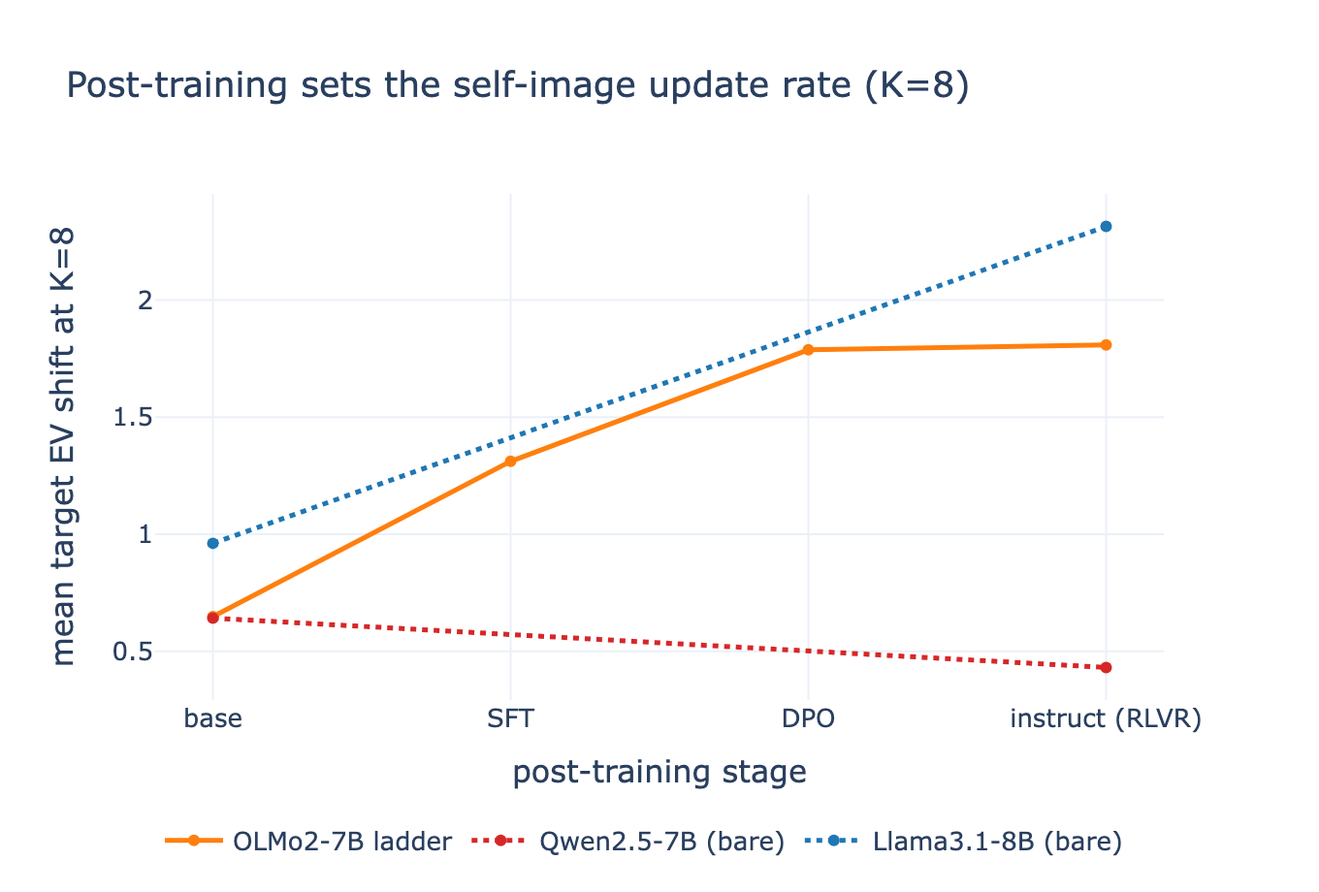
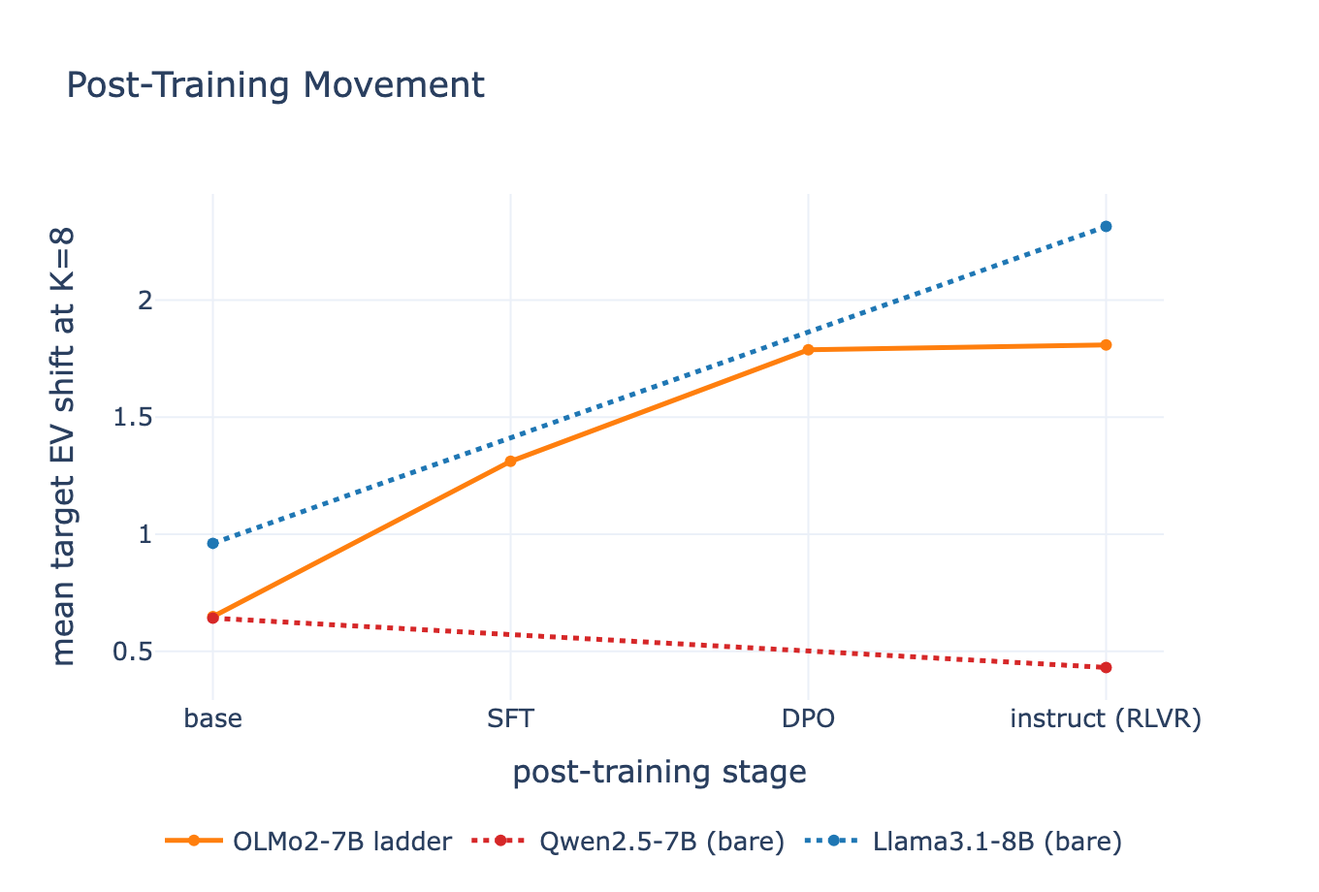
fig_ladder title claims less: 'Post-Training Movement' (rgb — the causal claim belongs in prose, not the figure)
Claude-Session: https://claude.ai/code/session_01WswaY6Pe8WTjJ8fkWw2pwh

Changed region(s): [[0.1235, 0.0609, 0.7412, 0.1217]]

diff --git a/rgb_reports/note_assets/fig_dose_response.html b/rgb_reports/note_assets/fig_dose_response.html
@@ -2,6 +2,6 @@
 <head><meta charset="utf-8" /></head>
 <body>
     <div>                        <script>window.PlotlyConfig = {MathJaxConfig: 'local'};</script>
-        <script charset="utf-8" src="https://cdn.plot.ly/plotly-3.4.0.min.js" integrity="sha256-KEmPoupLpFyGMyGAiOsiNDbKDKAvxXAn/W+oQa0ZAfk=" crossorigin="anonymous"></script>                <div id="b6ab930f-c527-4300-a89a-400cb4ff6f18" class="plotly-graph-div" style="height:440px; width:680px;"></div>            <script>                window.PLOTLYENV=window.PLOTLYENV || {};                                if (document.getElementById("b6ab930f-c527-4300-a89a-400cb4ff6f18")) {                    Plotly.newPlot(                        "b6ab930f-c527-4300-a89a-400cb4ff6f18",                        [{"fill":"toself","fillcolor":"rgba(31,119,180,0.13)","hoverinfo":"skip","mode":"none","showlegend":false,"x":[1,2,4,8,16,32,32,16,8,4,2,1],"y":[0.6029344554353283,1.1973687902768704,2.351087751865138,3.403621983109095,3.7714776336902127,3.933044749666975,2.614722977235904,2.316825096472864,1.8976985667315815,1.006490005061451,0.4081108400359045,0.04639064270562511],"type":"scatter"},{"fill":"toself","fillcolor":"rgba(44,160,44,0.13)","hoverinfo":"skip","mode":"none","showlegend":false,"x":[1,2,4,8,16,32,32,16,8,4,2,1],"y":[1.286072647638808,1.3880356968354297,2.168021800074921,2.6376202095724213,2.885585925489407,2.952445151099924,1.6047358414631352,1.4353133588020268,1.094101512152232,0.7864935855007998,0.34318444818431343,0.17591345482376208],"type":"scatter"},{"fill":"toself","fillcolor":"rgba(214,39,40,0.13)","hoverinfo":"skip","mode":"none","showlegend":false,"x":[1,2,4,8,16,32,32,16,8,4,2,1],"y":[0.04815142470527704,0.2852259937255693,0.2505838010752896,0.29329181214893074,0.6407954082920834,0.9393291104397751,0.1935900785242677,0.05423806197726321,-0.122092612555842,-0.13693738630600097,-0.09373558647965659,-0.315862010945339],"type":"scatter"},{"fill":"toself","fillcolor":"rgba(148,103,189,0.13)","hoverinfo":"skip","mode":"none","showlegend":false,"x":[1,2,4,8,16,32,32,16,8,4,2,1],"y":[0.3246933587795297,0.4055850168193764,0.4080666271601032,0.5205534512978631,0.6983603922507411,0.6877155939214548,0.3004819294326289,0.3351042164456756,0.1913781812364884,0.06506146430090372,0.04474095791070417,-0.05847932023751253],"type":"scatter"},{"line":{"color":"#1f77b4","width":2.5},"mode":"lines+markers","name":"Llama3.1-8B","x":[1,2,4,8,16,32],"y":[0.3215113865133689,0.7565782048769905,1.6692980164038846,2.626398513332851,3.0492405989334532,3.2888305071780772],"type":"scatter"},{"line":{"color":"#2ca02c","width":2.5},"mode":"lines+markers","name":"Gemma3-12B","x":[1,2,4,8,16,32],"y":[0.6683577570700046,0.8280305195939915,1.4369286830529788,1.82395749521288,2.1414539435204007,2.276292663532421],"type":"scatter"},{"line":{"color":"#d62728","width":2.5},"mode":"lines+markers","name":"Qwen2.5-7B","x":[1,2,4,8,16,32],"y":[-0.13380977864904015,0.08795590585218446,0.0576701126425989,0.08621995793043041,0.3238775951827736,0.5464746681226866],"type":"scatter"},{"line":{"color":"#9467bd","width":2.5},"mode":"lines+markers","name":"Phi4-3.8B","x":[1,2,4,8,16,32],"y":[0.12131485117013911,0.21246464582131827,0.22589328799117703,0.3476395492187805,0.49888159930901993,0.48372197911592824],"type":"scatter"}],                        {"template":{"data":{"barpolar":[{"marker":{"line":{"color":"white","width":0.5},"pattern":{"fillmode":"overlay","size":10,"solidity":0.2}},"type":"barpolar"}],"bar":[{"error_x":{"color":"#2a3f5f"},"error_y":{"color":"#2a3f5f"},"marker":{"line":{"color":"white","width":0.5},"pattern":{"fillmode":"overlay","size":10,"solidity":0.2}},"type":"bar"}],"carpet":[{"aaxis":{"endlinecolor":"#2a3f5f","gridcolor":"#C8D4E3","linecolor":"#C8D4E3","minorgridcolor":"#C8D4E3","startlinecolor":"#2a3f5f"},"baxis":{"endlinecolor":"#2a3f5f","gridcolor":"#C8D4E3","linecolor":"#C8D4E3","minorgridcolor":"#C8D4E3","startlinecolor":"#2a3f5f"},"type":"carpet"}],"choropleth":[{"colorbar":{"outlinewidth":0,"ticks":""},"type":"choropleth"}],"contourcarpet":[{"colorbar":{"outlinewidth":0,"ticks":""},"type":"contourcarpet"}],"contour":[{"colorbar":{"outlinewidth":0,"ticks":""},"colorscale":[[0.0,"#0d0887"],[0.1111111111111111,"#46039f"],[0.2222222222222222,"#7201a8"],[0.3333333333333333,"#9c179e"],[0.4444444444444444,"#bd3786"],[0.5555555555555556,"#d8576b"],[0.6666666666666666,"#ed7953"],[0.7777777777777778,"#fb9f3a"],[0.8888888888888888,"#fdca26"],[1.0,"#f0f921"]],"type":"contour"}],"heatmap":[{"colorbar":{"outlinewidth":0,"ticks":""},"colorscale":[[0.0,"#0d0887"],[0.1111111111111111,"#46039f"],[0.2222222222222222,"#7201a8"],[0.3333333333333333,"#9c179e"],[0.4444444444444444,"#bd3786"],[0.5555555555555556,"#d8576b"],[0.6666666666666666,"#ed7953"],[0.7777777777777778,"#fb9f3a"],[0.8888888888888888,"#fdca26"],[1.0,"#f0f921"]],"type":"heatmap"}],"histogram2dcontour":[{"colorbar":{"outlinewidth":0,"ticks":""},"colorscale":[[0.0,"#0d0887"],[0.1111111111111111,"#46039f"],[0.2222222222222222,"#7201a8"],[0.3333333333333333,"#9c179e"],[0.4444444444444444,"#bd3786"],[0.5555555555555556,"#d8576b"],[0.6666666666666666,"#ed7953"],[0.7777777777777778,"#fb9f3a"],[0.8888888888888888,"#fdca26"],[1.0,"#f0f921"]],"type":"histogram2dcontour"}],"histogram2d":[{"colorbar":{"outlinewidth":0,"ticks":""},"colorscale":[[0.0,"#0d0887"],[0.1111111111111111,"#46039f"],[0.2222222222222222,"#7201a8"],[0.3333333333333333,"#9c179e"],[0.4444444444444444,"#bd3786"],[0.5555555555555556,"#d8576b"],[0.6666666666666666,"#ed7953"],[0.7777777777777778,"#fb9f3a"],[0.8888888888888888,"#fdca26"],[1.0,"#f0f921"]],"type":"histogram2d"}],"histogram":[{"marker":{"pattern":{"fillmode":"overlay","size":10,"solidity":0.2}},"type":"histogram"}],"mesh3d":[{"colorbar":{"outlinewidth":0,"ticks":""},"type":"mesh3d"}],"parcoords":[{"line":{"colorbar":{"outlinewidth":0,"ticks":""}},"type":"parcoords"}],"pie":[{"automargin":true,"type":"pie"}],"scatter3d":[{"line":{"colorbar":{"outlinewidth":0,"ticks":""}},"marker":{"colorbar":{"outlinewidth":0,"ticks":""}},"type":"scatter3d"}],"scattercarpet":[{"marker":{"colorbar":{"outlinewidth":0,"ticks":""}},"type":"scattercarpet"}],"scattergeo":[{"marker":{"colorbar":{"outlinewidth":0,"ticks":""}},"type":"scattergeo"}],"scattergl":[{"marker":{"colorbar":{"outlinewidth":0,"ticks":""}},"type":"scattergl"}],"scattermapbox":[{"marker":{"colorbar":{"outlinewidth":0,"ticks":""}},"type":"scattermapbox"}],"scattermap":[{"marker":{"colorbar":{"outlinewidth":0,"ticks":""}},"type":"scattermap"}],"scatterpolargl":[{"marker":{"colorbar":{"outlinewidth":0,"ticks":""}},"type":"scatterpolargl"}],"scatterpolar":[{"marker":{"colorbar":{"outlinewidth":0,"ticks":""}},"type":"scatterpolar"}],"scatter":[{"fillpattern":{"fillmode":"overlay","size":10,"solidity":0.2},"type":"scatter"}],"scatterternary":[{"marker":{"colorbar":{"outlinewidth":0,"ticks":""}},"type":"scatterternary"}],"surface":[{"colorbar":{"outlinewidth":0,"ticks":""},"colorscale":[[0.0,"#0d0887"],[0.1111111111111111,"#46039f"],[0.2222222222222222,"#7201a8"],[0.3333333333333333,"#9c179e"],[0.4444444444444444,"#bd3786"],[0.5555555555555556,"#d8576b"],[0.6666666666666666,"#ed7953"],[0.7777777777777778,"#fb9f3a"],[0.8888888888888888,"#fdca26"],[1.0,"#f0f921"]],"type":"surface"}],"table":[{"cells":{"fill":{"color":"#EBF0F8"},"line":{"color":"white"}},"header":{"fill":{"color":"#C8D4E3"},"line":{"color":"white"}},"type":"table"}]},"layout":{"annotationdefaults":{"arrowcolor":"#2a3f5f","arrowhead":0,"arrowwidth":1},"autotypenumbers":"strict","coloraxis":{"colorbar":{"outlinewidth":0,"ticks":""}},"colorscale":{"diverging":[[0,"#8e0152"],[0.1,"#c51b7d"],[0.2,"#de77ae"],[0.3,"#f1b6da"],[0.4,"#fde0ef"],[0.5,"#f7f7f7"],[0.6,"#e6f5d0"],[0.7,"#b8e186"],[0.8,"#7fbc41"],[0.9,"#4d9221"],[1,"#276419"]],"sequential":[[0.0,"#0d0887"],[0.1111111111111111,"#46039f"],[0.2222222222222222,"#7201a8"],[0.3333333333333333,"#9c179e"],[0.4444444444444444,"#bd3786"],[0.5555555555555556,"#d8576b"],[0.6666666666666666,"#ed7953"],[0.7777777777777778,"#fb9f3a"],[0.8888888888888888,"#fdca26"],[1.0,"#f0f921"]],"sequentialminus":[[0.0,"#0d0887"],[0.1111111111111111,"#46039f"],[0.2222222222222222,"#7201a8"],[0.3333333333333333,"#9c179e"],[0.4444444444444444,"#bd3786"],[0.5555555555555556,"#d8576b"],[0.6666666666666666,"#ed7953"],[0.7777777777777778,"#fb9f3a"],[0.8888888888888888,"#fdca26"],[1.0,"#f0f921"]]},"colorway":["#636efa","#EF553B","#00cc96","#ab63fa","#FFA15A","#19d3f3","#FF6692","#B6E880","#FF97FF","#FECB52"],"font":{"color":"#2a3f5f"},"geo":{"bgcolor":"white","lakecolor":"white","landcolor":"white","showlakes":true,"showland":true,"subunitcolor":"#C8D4E3"},"hoverlabel":{"align":"left"},"hovermode":"closest","mapbox":{"style":"light"},"paper_bgcolor":"white","plot_bgcolor":"white","polar":{"angularaxis":{"gridcolor":"#EBF0F8","linecolor":"#EBF0F8","ticks":""},"bgcolor":"white","radialaxis":{"gridcolor":"#EBF0F8","linecolor":"#EBF0F8","ticks":""}},"scene":{"xaxis":{"backgroundcolor":"white","gridcolor":"#DFE8F3","gridwidth":2,"linecolor":"#EBF0F8","showbackground":true,"ticks":"","zerolinecolor":"#EBF0F8"},"yaxis":{"backgroundcolor":"white","gridcolor":"#DFE8F3","gridwidth":2,"linecolor":"#EBF0F8","showbackground":true,"ticks":"","zerolinecolor":"#EBF0F8"},"zaxis":{"backgroundcolor":"white","gridcolor":"#DFE8F3","gridwidth":2,"linecolor":"#EBF0F8","showbackground":true,"ticks":"","zerolinecolor":"#EBF0F8"}},"shapedefaults":{"line":{"color":"#2a3f5f"}},"ternary":{"aaxis":{"gridcolor":"#DFE8F3","linecolor":"#A2B1C6","ticks":""},"baxis":{"gridcolor":"#DFE8F3","linecolor":"#A2B1C6","ticks":""},"bgcolor":"white","caxis":{"gridcolor":"#DFE8F3","linecolor":"#A2B1C6","ticks":""}},"title":{"x":0.05},"xaxis":{"automargin":true,"gridcolor":"#EBF0F8","linecolor":"#EBF0F8","ticks":"","title":{"standoff":15},"zerolinecolor":"#EBF0F8","zerolinewidth":2},"yaxis":{"automargin":true,"gridcolor":"#EBF0F8","linecolor":"#EBF0F8","ticks":"","title":{"standoff":15},"zerolinecolor":"#EBF0F8","zerolinewidth":2}}},"xaxis":{"title":{"text":"K (in-context turns of own conduct)"},"type":"log","tickvals":[1,2,4,8,16,32]},"legend":{"x":0.02,"y":0.98},"font":{"size":13},"width":680,"height":440,"title":{"text":"Self-image shift vs turns of own conduct (uninstructed)"},"yaxis":{"title":{"text":"mean target EV shift vs K=0 (Likert 1–7)"}}},                        {"responsive": true}                    )                };            </script>        </div>
+        <script charset="utf-8" src="https://cdn.plot.ly/plotly-3.4.0.min.js" integrity="sha256-KEmPoupLpFyGMyGAiOsiNDbKDKAvxXAn/W+oQa0ZAfk=" crossorigin="anonymous"></script>                <div id="9f548b51-71a9-45d5-8531-796c610a1822" class="plotly-graph-div" style="height:440px; width:680px;"></div>            <script>                window.PLOTLYENV=window.PLOTLYENV || {};                                if (document.getElementById("9f548b51-71a9-45d5-8531-796c610a1822")) {                    Plotly.newPlot(                        "9f548b51-71a9-45d5-8531-796c610a1822",                        [{"fill":"toself","fillcolor":"rgba(31,119,180,0.13)","hoverinfo":"skip","mode":"none","showlegend":false,"x":[1,2,4,8,16,32,32,16,8,4,2,1],"y":[0.6029344554353283,1.1973687902768704,2.351087751865138,3.403621983109095,3.7714776336902127,3.933044749666975,2.614722977235904,2.316825096472864,1.8976985667315815,1.006490005061451,0.4081108400359045,0.04639064270562511],"type":"scatter"},{"fill":"toself","fillcolor":"rgba(44,160,44,0.13)","hoverinfo":"skip","mode":"none","showlegend":false,"x":[1,2,4,8,16,32,32,16,8,4,2,1],"y":[1.286072647638808,1.3880356968354297,2.168021800074921,2.6376202095724213,2.885585925489407,2.952445151099924,1.6047358414631352,1.4353133588020268,1.094101512152232,0.7864935855007998,0.34318444818431343,0.17591345482376208],"type":"scatter"},{"fill":"toself","fillcolor":"rgba(214,39,40,0.13)","hoverinfo":"skip","mode":"none","showlegend":false,"x":[1,2,4,8,16,32,32,16,8,4,2,1],"y":[0.04815142470527704,0.2852259937255693,0.2505838010752896,0.29329181214893074,0.6407954082920834,0.9393291104397751,0.1935900785242677,0.05423806197726321,-0.122092612555842,-0.13693738630600097,-0.09373558647965659,-0.315862010945339],"type":"scatter"},{"fill":"toself","fillcolor":"rgba(148,103,189,0.13)","hoverinfo":"skip","mode":"none","showlegend":false,"x":[1,2,4,8,16,32,32,16,8,4,2,1],"y":[0.3246933587795297,0.4055850168193764,0.4080666271601032,0.5205534512978631,0.6983603922507411,0.6877155939214548,0.3004819294326289,0.3351042164456756,0.1913781812364884,0.06506146430090372,0.04474095791070417,-0.05847932023751253],"type":"scatter"},{"line":{"color":"#1f77b4","width":2.5},"mode":"lines+markers","name":"Llama3.1-8B","x":[1,2,4,8,16,32],"y":[0.3215113865133689,0.7565782048769905,1.6692980164038846,2.626398513332851,3.0492405989334532,3.2888305071780772],"type":"scatter"},{"line":{"color":"#2ca02c","width":2.5},"mode":"lines+markers","name":"Gemma3-12B","x":[1,2,4,8,16,32],"y":[0.6683577570700046,0.8280305195939915,1.4369286830529788,1.82395749521288,2.1414539435204007,2.276292663532421],"type":"scatter"},{"line":{"color":"#d62728","width":2.5},"mode":"lines+markers","name":"Qwen2.5-7B","x":[1,2,4,8,16,32],"y":[-0.13380977864904015,0.08795590585218446,0.0576701126425989,0.08621995793043041,0.3238775951827736,0.5464746681226866],"type":"scatter"},{"line":{"color":"#9467bd","width":2.5},"mode":"lines+markers","name":"Phi4-3.8B","x":[1,2,4,8,16,32],"y":[0.12131485117013911,0.21246464582131827,0.22589328799117703,0.3476395492187805,0.49888159930901993,0.48372197911592824],"type":"scatter"}],                        {"template":{"data":{"barpolar":[{"marker":{"line":{"color":"white","width":0.5},"pattern":{"fillmode":"overlay","size":10,"solidity":0.2}},"type":"barpolar"}],"bar":[{"error_x":{"color":"#2a3f5f"},"error_y":{"color":"#2a3f5f"},"marker":{"line":{"color":"white","width":0.5},"pattern":{"fillmode":"overlay","size":10,"solidity":0.2}},"type":"bar"}],"carpet":[{"aaxis":{"endlinecolor":"#2a3f5f","gridcolor":"#C8D4E3","linecolor":"#C8D4E3","minorgridcolor":"#C8D4E3","startlinecolor":"#2a3f5f"},"baxis":{"endlinecolor":"#2a3f5f","gridcolor":"#C8D4E3","linecolor":"#C8D4E3","minorgridcolor":"#C8D4E3","startlinecolor":"#2a3f5f"},"type":"carpet"}],"choropleth":[{"colorbar":{"outlinewidth":0,"ticks":""},"type":"choropleth"}],"contourcarpet":[{"colorbar":{"outlinewidth":0,"ticks":""},"type":"contourcarpet"}],"contour":[{"colorbar":{"outlinewidth":0,"ticks":""},"colorscale":[[0.0,"#0d0887"],[0.1111111111111111,"#46039f"],[0.2222222222222222,"#7201a8"],[0.3333333333333333,"#9c179e"],[0.4444444444444444,"#bd3786"],[0.5555555555555556,"#d8576b"],[0.6666666666666666,"#ed7953"],[0.7777777777777778,"#fb9f3a"],[0.8888888888888888,"#fdca26"],[1.0,"#f0f921"]],"type":"contour"}],"heatmap":[{"colorbar":{"outlinewidth":0,"ticks":""},"colorscale":[[0.0,"#0d0887"],[0.1111111111111111,"#46039f"],[0.2222222222222222,"#7201a8"],[0.3333333333333333,"#9c179e"],[0.4444444444444444,"#bd3786"],[0.5555555555555556,"#d8576b"],[0.6666666666666666,"#ed7953"],[0.7777777777777778,"#fb9f3a"],[0.8888888888888888,"#fdca26"],[1.0,"#f0f921"]],"type":"heatmap"}],"histogram2dcontour":[{"colorbar":{"outlinewidth":0,"ticks":""},"colorscale":[[0.0,"#0d0887"],[0.1111111111111111,"#46039f"],[0.2222222222222222,"#7201a8"],[0.3333333333333333,"#9c179e"],[0.4444444444444444,"#bd3786"],[0.5555555555555556,"#d8576b"],[0.6666666666666666,"#ed7953"],[0.7777777777777778,"#fb9f3a"],[0.8888888888888888,"#fdca26"],[1.0,"#f0f921"]],"type":"histogram2dcontour"}],"histogram2d":[{"colorbar":{"outlinewidth":0,"ticks":""},"colorscale":[[0.0,"#0d0887"],[0.1111111111111111,"#46039f"],[0.2222222222222222,"#7201a8"],[0.3333333333333333,"#9c179e"],[0.4444444444444444,"#bd3786"],[0.5555555555555556,"#d8576b"],[0.6666666666666666,"#ed7953"],[0.7777777777777778,"#fb9f3a"],[0.8888888888888888,"#fdca26"],[1.0,"#f0f921"]],"type":"histogram2d"}],"histogram":[{"marker":{"pattern":{"fillmode":"overlay","size":10,"solidity":0.2}},"type":"histogram"}],"mesh3d":[{"colorbar":{"outlinewidth":0,"ticks":""},"type":"mesh3d"}],"parcoords":[{"line":{"colorbar":{"outlinewidth":0,"ticks":""}},"type":"parcoords"}],"pie":[{"automargin":true,"type":"pie"}],"scatter3d":[{"line":{"colorbar":{"outlinewidth":0,"ticks":""}},"marker":{"colorbar":{"outlinewidth":0,"ticks":""}},"type":"scatter3d"}],"scattercarpet":[{"marker":{"colorbar":{"outlinewidth":0,"ticks":""}},"type":"scattercarpet"}],"scattergeo":[{"marker":{"colorbar":{"outlinewidth":0,"ticks":""}},"type":"scattergeo"}],"scattergl":[{"marker":{"colorbar":{"outlinewidth":0,"ticks":""}},"type":"scattergl"}],"scattermapbox":[{"marker":{"colorbar":{"outlinewidth":0,"ticks":""}},"type":"scattermapbox"}],"scattermap":[{"marker":{"colorbar":{"outlinewidth":0,"ticks":""}},"type":"scattermap"}],"scatterpolargl":[{"marker":{"colorbar":{"outlinewidth":0,"ticks":""}},"type":"scatterpolargl"}],"scatterpolar":[{"marker":{"colorbar":{"outlinewidth":0,"ticks":""}},"type":"scatterpolar"}],"scatter":[{"fillpattern":{"fillmode":"overlay","size":10,"solidity":0.2},"type":"scatter"}],"scatterternary":[{"marker":{"colorbar":{"outlinewidth":0,"ticks":""}},"type":"scatterternary"}],"surface":[{"colorbar":{"outlinewidth":0,"ticks":""},"colorscale":[[0.0,"#0d0887"],[0.1111111111111111,"#46039f"],[0.2222222222222222,"#7201a8"],[0.3333333333333333,"#9c179e"],[0.4444444444444444,"#bd3786"],[0.5555555555555556,"#d8576b"],[0.6666666666666666,"#ed7953"],[0.7777777777777778,"#fb9f3a"],[0.8888888888888888,"#fdca26"],[1.0,"#f0f921"]],"type":"surface"}],"table":[{"cells":{"fill":{"color":"#EBF0F8"},"line":{"color":"white"}},"header":{"fill":{"color":"#C8D4E3"},"line":{"color":"white"}},"type":"table"}]},"layout":{"annotationdefaults":{"arrowcolor":"#2a3f5f","arrowhead":0,"arrowwidth":1},"autotypenumbers":"strict","coloraxis":{"colorbar":{"outlinewidth":0,"ticks":""}},"colorscale":{"diverging":[[0,"#8e0152"],[0.1,"#c51b7d"],[0.2,"#de77ae"],[0.3,"#f1b6da"],[0.4,"#fde0ef"],[0.5,"#f7f7f7"],[0.6,"#e6f5d0"],[0.7,"#b8e186"],[0.8,"#7fbc41"],[0.9,"#4d9221"],[1,"#276419"]],"sequential":[[0.0,"#0d0887"],[0.1111111111111111,"#46039f"],[0.2222222222222222,"#7201a8"],[0.3333333333333333,"#9c179e"],[0.4444444444444444,"#bd3786"],[0.5555555555555556,"#d8576b"],[0.6666666666666666,"#ed7953"],[0.7777777777777778,"#fb9f3a"],[0.8888888888888888,"#fdca26"],[1.0,"#f0f921"]],"sequentialminus":[[0.0,"#0d0887"],[0.1111111111111111,"#46039f"],[0.2222222222222222,"#7201a8"],[0.3333333333333333,"#9c179e"],[0.4444444444444444,"#bd3786"],[0.5555555555555556,"#d8576b"],[0.6666666666666666,"#ed7953"],[0.7777777777777778,"#fb9f3a"],[0.8888888888888888,"#fdca26"],[1.0,"#f0f921"]]},"colorway":["#636efa","#EF553B","#00cc96","#ab63fa","#FFA15A","#19d3f3","#FF6692","#B6E880","#FF97FF","#FECB52"],"font":{"color":"#2a3f5f"},"geo":{"bgcolor":"white","lakecolor":"white","landcolor":"white","showlakes":true,"showland":true,"subunitcolor":"#C8D4E3"},"hoverlabel":{"align":"left"},"hovermode":"closest","mapbox":{"style":"light"},"paper_bgcolor":"white","plot_bgcolor":"white","polar":{"angularaxis":{"gridcolor":"#EBF0F8","linecolor":"#EBF0F8","ticks":""},"bgcolor":"white","radialaxis":{"gridcolor":"#EBF0F8","linecolor":"#EBF0F8","ticks":""}},"scene":{"xaxis":{"backgroundcolor":"white","gridcolor":"#DFE8F3","gridwidth":2,"linecolor":"#EBF0F8","showbackground":true,"ticks":"","zerolinecolor":"#EBF0F8"},"yaxis":{"backgroundcolor":"white","gridcolor":"#DFE8F3","gridwidth":2,"linecolor":"#EBF0F8","showbackground":true,"ticks":"","zerolinecolor":"#EBF0F8"},"zaxis":{"backgroundcolor":"white","gridcolor":"#DFE8F3","gridwidth":2,"linecolor":"#EBF0F8","showbackground":true,"ticks":"","zerolinecolor":"#EBF0F8"}},"shapedefaults":{"line":{"color":"#2a3f5f"}},"ternary":{"aaxis":{"gridcolor":"#DFE8F3","linecolor":"#A2B1C6","ticks":""},"baxis":{"gridcolor":"#DFE8F3","linecolor":"#A2B1C6","ticks":""},"bgcolor":"white","caxis":{"gridcolor":"#DFE8F3","linecolor":"#A2B1C6","ticks":""}},"title":{"x":0.05},"xaxis":{"automargin":true,"gridcolor":"#EBF0F8","linecolor":"#EBF0F8","ticks":"","title":{"standoff":15},"zerolinecolor":"#EBF0F8","zerolinewidth":2},"yaxis":{"automargin":true,"gridcolor":"#EBF0F8","linecolor":"#EBF0F8","ticks":"","title":{"standoff":15},"zerolinecolor":"#EBF0F8","zerolinewidth":2}}},"xaxis":{"title":{"text":"K (in-context turns of own conduct)"},"type":"log","tickvals":[1,2,4,8,16,32]},"legend":{"x":0.02,"y":0.98},"font":{"size":13},"width":680,"height":440,"title":{"text":"Self-image shift vs turns of own conduct (uninstructed)"},"yaxis":{"title":{"text":"mean target EV shift vs K=0 (Likert 1–7)"}}},                        {"responsive": true}                    )                };            </script>        </div>
 </body>
 </html>

diff --git a/rgb_reports/note_assets/fig_ladder.html b/rgb_reports/note_assets/fig_ladder.html
@@ -2,6 +2,6 @@
 <head><meta charset="utf-8" /></head>
 <body>
     <div>                        <script>window.PlotlyConfig = {MathJaxConfig: 'local'};</script>
-        <script charset="utf-8" src="https://cdn.plot.ly/plotly-3.4.0.min.js" integrity="sha256-KEmPoupLpFyGMyGAiOsiNDbKDKAvxXAn/W+oQa0ZAfk=" crossorigin="anonymous"></script>                <div id="a534d2d3-29f7-4434-a0a9-299ebf23f24d" class="plotly-graph-div" style="height:460px; width:680px;"></div>            <script>                window.PLOTLYENV=window.PLOTLYENV || {};                                if (document.getElementById("a534d2d3-29f7-4434-a0a9-299ebf23f24d")) {                    Plotly.newPlot(                        "a534d2d3-29f7-4434-a0a9-299ebf23f24d",                        [{"line":{"color":"#ff7f0e","width":2.5},"mode":"lines+markers","name":"OLMo2-7B ladder","x":["base","SFT","DPO","instruct (RLVR)"],"y":[0.6487380935543748,1.3115380715936258,1.7875910523448222,1.8082616659730726],"type":"scatter"},{"line":{"color":"#d62728","dash":"dot","width":2.5},"mode":"lines+markers","name":"Qwen2.5-7B (bare)","x":["base","instruct (RLVR)"],"y":[0.6421499035555496,0.43155263450008186],"type":"scatter"},{"line":{"color":"#1f77b4","dash":"dot","width":2.5},"mode":"lines+markers","name":"Llama3.1-8B (bare)","x":["base","instruct (RLVR)"],"y":[0.9615230805985554,2.3142949682654796],"type":"scatter"}],                        {"template":{"data":{"barpolar":[{"marker":{"line":{"color":"white","width":0.5},"pattern":{"fillmode":"overlay","size":10,"solidity":0.2}},"type":"barpolar"}],"bar":[{"error_x":{"color":"#2a3f5f"},"error_y":{"color":"#2a3f5f"},"marker":{"line":{"color":"white","width":0.5},"pattern":{"fillmode":"overlay","size":10,"solidity":0.2}},"type":"bar"}],"carpet":[{"aaxis":{"endlinecolor":"#2a3f5f","gridcolor":"#C8D4E3","linecolor":"#C8D4E3","minorgridcolor":"#C8D4E3","startlinecolor":"#2a3f5f"},"baxis":{"endlinecolor":"#2a3f5f","gridcolor":"#C8D4E3","linecolor":"#C8D4E3","minorgridcolor":"#C8D4E3","startlinecolor":"#2a3f5f"},"type":"carpet"}],"choropleth":[{"colorbar":{"outlinewidth":0,"ticks":""},"type":"choropleth"}],"contourcarpet":[{"colorbar":{"outlinewidth":0,"ticks":""},"type":"contourcarpet"}],"contour":[{"colorbar":{"outlinewidth":0,"ticks":""},"colorscale":[[0.0,"#0d0887"],[0.1111111111111111,"#46039f"],[0.2222222222222222,"#7201a8"],[0.3333333333333333,"#9c179e"],[0.4444444444444444,"#bd3786"],[0.5555555555555556,"#d8576b"],[0.6666666666666666,"#ed7953"],[0.7777777777777778,"#fb9f3a"],[0.8888888888888888,"#fdca26"],[1.0,"#f0f921"]],"type":"contour"}],"heatmap":[{"colorbar":{"outlinewidth":0,"ticks":""},"colorscale":[[0.0,"#0d0887"],[0.1111111111111111,"#46039f"],[0.2222222222222222,"#7201a8"],[0.3333333333333333,"#9c179e"],[0.4444444444444444,"#bd3786"],[0.5555555555555556,"#d8576b"],[0.6666666666666666,"#ed7953"],[0.7777777777777778,"#fb9f3a"],[0.8888888888888888,"#fdca26"],[1.0,"#f0f921"]],"type":"heatmap"}],"histogram2dcontour":[{"colorbar":{"outlinewidth":0,"ticks":""},"colorscale":[[0.0,"#0d0887"],[0.1111111111111111,"#46039f"],[0.2222222222222222,"#7201a8"],[0.3333333333333333,"#9c179e"],[0.4444444444444444,"#bd3786"],[0.5555555555555556,"#d8576b"],[0.6666666666666666,"#ed7953"],[0.7777777777777778,"#fb9f3a"],[0.8888888888888888,"#fdca26"],[1.0,"#f0f921"]],"type":"histogram2dcontour"}],"histogram2d":[{"colorbar":{"outlinewidth":0,"ticks":""},"colorscale":[[0.0,"#0d0887"],[0.1111111111111111,"#46039f"],[0.2222222222222222,"#7201a8"],[0.3333333333333333,"#9c179e"],[0.4444444444444444,"#bd3786"],[0.5555555555555556,"#d8576b"],[0.6666666666666666,"#ed7953"],[0.7777777777777778,"#fb9f3a"],[0.8888888888888888,"#fdca26"],[1.0,"#f0f921"]],"type":"histogram2d"}],"histogram":[{"marker":{"pattern":{"fillmode":"overlay","size":10,"solidity":0.2}},"type":"histogram"}],"mesh3d":[{"colorbar":{"outlinewidth":0,"ticks":""},"type":"mesh3d"}],"parcoords":[{"line":{"colorbar":{"outlinewidth":0,"ticks":""}},"type":"parcoords"}],"pie":[{"automargin":true,"type":"pie"}],"scatter3d":[{"line":{"colorbar":{"outlinewidth":0,"ticks":""}},"marker":{"colorbar":{"outlinewidth":0,"ticks":""}},"type":"scatter3d"}],"scattercarpet":[{"marker":{"colorbar":{"outlinewidth":0,"ticks":""}},"type":"scattercarpet"}],"scattergeo":[{"marker":{"colorbar":{"outlinewidth":0,"ticks":""}},"type":"scattergeo"}],"scattergl":[{"marker":{"colorbar":{"outlinewidth":0,"ticks":""}},"type":"scattergl"}],"scattermapbox":[{"marker":{"colorbar":{"outlinewidth":0,"ticks":""}},"type":"scattermapbox"}],"scattermap":[{"marker":{"colorbar":{"outlinewidth":0,"ticks":""}},"type":"scattermap"}],"scatterpolargl":[{"marker":{"colorbar":{"outlinewidth":0,"ticks":""}},"type":"scatterpolargl"}],"scatterpolar":[{"marker":{"colorbar":{"outlinewidth":0,"ticks":""}},"type":"scatterpolar"}],"scatter":[{"fillpattern":{"fillmode":"overlay","size":10,"solidity":0.2},"type":"scatter"}],"scatterternary":[{"marker":{"colorbar":{"outlinewidth":0,"ticks":""}},"type":"scatterternary"}],"surface":[{"colorbar":{"outlinewidth":0,"ticks":""},"colorscale":[[0.0,"#0d0887"],[0.1111111111111111,"#46039f"],[0.2222222222222222,"#7201a8"],[0.3333333333333333,"#9c179e"],[0.4444444444444444,"#bd3786"],[0.5555555555555556,"#d8576b"],[0.6666666666666666,"#ed7953"],[0.7777777777777778,"#fb9f3a"],[0.8888888888888888,"#fdca26"],[1.0,"#f0f921"]],"type":"surface"}],"table":[{"cells":{"fill":{"color":"#EBF0F8"},"line":{"color":"white"}},"header":{"fill":{"color":"#C8D4E3"},"line":{"color":"white"}},"type":"table"}]},"layout":{"annotationdefaults":{"arrowcolor":"#2a3f5f","arrowhead":0,"arrowwidth":1},"autotypenumbers":"strict","coloraxis":{"colorbar":{"outlinewidth":0,"ticks":""}},"colorscale":{"diverging":[[0,"#8e0152"],[0.1,"#c51b7d"],[0.2,"#de77ae"],[0.3,"#f1b6da"],[0.4,"#fde0ef"],[0.5,"#f7f7f7"],[0.6,"#e6f5d0"],[0.7,"#b8e186"],[0.8,"#7fbc41"],[0.9,"#4d9221"],[1,"#276419"]],"sequential":[[0.0,"#0d0887"],[0.1111111111111111,"#46039f"],[0.2222222222222222,"#7201a8"],[0.3333333333333333,"#9c179e"],[0.4444444444444444,"#bd3786"],[0.5555555555555556,"#d8576b"],[0.6666666666666666,"#ed7953"],[0.7777777777777778,"#fb9f3a"],[0.8888888888888888,"#fdca26"],[1.0,"#f0f921"]],"sequentialminus":[[0.0,"#0d0887"],[0.1111111111111111,"#46039f"],[0.2222222222222222,"#7201a8"],[0.3333333333333333,"#9c179e"],[0.4444444444444444,"#bd3786"],[0.5555555555555556,"#d8576b"],[0.6666666666666666,"#ed7953"],[0.7777777777777778,"#fb9f3a"],[0.8888888888888888,"#fdca26"],[1.0,"#f0f921"]]},"colorway":["#636efa","#EF553B","#00cc96","#ab63fa","#FFA15A","#19d3f3","#FF6692","#B6E880","#FF97FF","#FECB52"],"font":{"color":"#2a3f5f"},"geo":{"bgcolor":"white","lakecolor":"white","landcolor":"white","showlakes":true,"showland":true,"subunitcolor":"#C8D4E3"},"hoverlabel":{"align":"left"},"hovermode":"closest","mapbox":{"style":"light"},"paper_bgcolor":"white","plot_bgcolor":"white","polar":{"angularaxis":{"gridcolor":"#EBF0F8","linecolor":"#EBF0F8","ticks":""},"bgcolor":"white","radialaxis":{"gridcolor":"#EBF0F8","linecolor":"#EBF0F8","ticks":""}},"scene":{"xaxis":{"backgroundcolor":"white","gridcolor":"#DFE8F3","gridwidth":2,"linecolor":"#EBF0F8","showbackground":true,"ticks":"","zerolinecolor":"#EBF0F8"},"yaxis":{"backgroundcolor":"white","gridcolor":"#DFE8F3","gridwidth":2,"linecolor":"#EBF0F8","showbackground":true,"ticks":"","zerolinecolor":"#EBF0F8"},"zaxis":{"backgroundcolor":"white","gridcolor":"#DFE8F3","gridwidth":2,"linecolor":"#EBF0F8","showbackground":true,"ticks":"","zerolinecolor":"#EBF0F8"}},"shapedefaults":{"line":{"color":"#2a3f5f"}},"ternary":{"aaxis":{"gridcolor":"#DFE8F3","linecolor":"#A2B1C6","ticks":""},"baxis":{"gridcolor":"#DFE8F3","linecolor":"#A2B1C6","ticks":""},"bgcolor":"white","caxis":{"gridcolor":"#DFE8F3","linecolor":"#A2B1C6","ticks":""}},"title":{"x":0.05},"xaxis":{"automargin":true,"gridcolor":"#EBF0F8","linecolor":"#EBF0F8","ticks":"","title":{"standoff":15},"zerolinecolor":"#EBF0F8","zerolinewidth":2},"yaxis":{"automargin":true,"gridcolor":"#EBF0F8","linecolor":"#EBF0F8","ticks":"","title":{"standoff":15},"zerolinecolor":"#EBF0F8","zerolinewidth":2}}},"legend":{"orientation":"h","y":-0.22,"x":0},"font":{"size":13},"width":680,"height":460,"title":{"text":"Post-training sets the self-image update rate (K=8)"},"yaxis":{"title":{"text":"mean target EV shift at K=8"}},"xaxis":{"title":{"text":"post-training stage"}}},                        {"responsive": true}                    )                };            </script>        </div>
+        <script charset="utf-8" src="https://cdn.plot.ly/plotly-3.4.0.min.js" integrity="sha256-KEmPoupLpFyGMyGAiOsiNDbKDKAvxXAn/W+oQa0ZAfk=" crossorigin="anonymous"></script>                <div id="1a9f63cb-b544-4e96-aaef-0ee1d20eb6df" class="plotly-graph-div" style="height:460px; width:680px;"></div>            <script>                window.PLOTLYENV=window.PLOTLYENV || {};                                if (document.getElementById("1a9f63cb-b544-4e96-aaef-0ee1d20eb6df")) {                    Plotly.newPlot(                        "1a9f63cb-b544-4e96-aaef-0ee1d20eb6df",                        [{"line":{"color":"#ff7f0e","width":2.5},"mode":"lines+markers","name":"OLMo2-7B ladder","x":["base","SFT","DPO","instruct (RLVR)"],"y":[0.6487380935543748,1.3115380715936258,1.7875910523448222,1.8082616659730726],"type":"scatter"},{"line":{"color":"#d62728","dash":"dot","width":2.5},"mode":"lines+markers","name":"Qwen2.5-7B (bare)","x":["base","instruct (RLVR)"],"y":[0.6421499035555496,0.43155263450008186],"type":"scatter"},{"line":{"color":"#1f77b4","dash":"dot","width":2.5},"mode":"lines+markers","name":"Llama3.1-8B (bare)","x":["base","instruct (RLVR)"],"y":[0.9615230805985554,2.3142949682654796],"type":"scatter"}],                        {"template":{"data":{"barpolar":[{"marker":{"line":{"color":"white","width":0.5},"pattern":{"fillmode":"overlay","size":10,"solidity":0.2}},"type":"barpolar"}],"bar":[{"error_x":{"color":"#2a3f5f"},"error_y":{"color":"#2a3f5f"},"marker":{"line":{"color":"white","width":0.5},"pattern":{"fillmode":"overlay","size":10,"solidity":0.2}},"type":"bar"}],"carpet":[{"aaxis":{"endlinecolor":"#2a3f5f","gridcolor":"#C8D4E3","linecolor":"#C8D4E3","minorgridcolor":"#C8D4E3","startlinecolor":"#2a3f5f"},"baxis":{"endlinecolor":"#2a3f5f","gridcolor":"#C8D4E3","linecolor":"#C8D4E3","minorgridcolor":"#C8D4E3","startlinecolor":"#2a3f5f"},"type":"carpet"}],"choropleth":[{"colorbar":{"outlinewidth":0,"ticks":""},"type":"choropleth"}],"contourcarpet":[{"colorbar":{"outlinewidth":0,"ticks":""},"type":"contourcarpet"}],"contour":[{"colorbar":{"outlinewidth":0,"ticks":""},"colorscale":[[0.0,"#0d0887"],[0.1111111111111111,"#46039f"],[0.2222222222222222,"#7201a8"],[0.3333333333333333,"#9c179e"],[0.4444444444444444,"#bd3786"],[0.5555555555555556,"#d8576b"],[0.6666666666666666,"#ed7953"],[0.7777777777777778,"#fb9f3a"],[0.8888888888888888,"#fdca26"],[1.0,"#f0f921"]],"type":"contour"}],"heatmap":[{"colorbar":{"outlinewidth":0,"ticks":""},"colorscale":[[0.0,"#0d0887"],[0.1111111111111111,"#46039f"],[0.2222222222222222,"#7201a8"],[0.3333333333333333,"#9c179e"],[0.4444444444444444,"#bd3786"],[0.5555555555555556,"#d8576b"],[0.6666666666666666,"#ed7953"],[0.7777777777777778,"#fb9f3a"],[0.8888888888888888,"#fdca26"],[1.0,"#f0f921"]],"type":"heatmap"}],"histogram2dcontour":[{"colorbar":{"outlinewidth":0,"ticks":""},"colorscale":[[0.0,"#0d0887"],[0.1111111111111111,"#46039f"],[0.2222222222222222,"#7201a8"],[0.3333333333333333,"#9c179e"],[0.4444444444444444,"#bd3786"],[0.5555555555555556,"#d8576b"],[0.6666666666666666,"#ed7953"],[0.7777777777777778,"#fb9f3a"],[0.8888888888888888,"#fdca26"],[1.0,"#f0f921"]],"type":"histogram2dcontour"}],"histogram2d":[{"colorbar":{"outlinewidth":0,"ticks":""},"colorscale":[[0.0,"#0d0887"],[0.1111111111111111,"#46039f"],[0.2222222222222222,"#7201a8"],[0.3333333333333333,"#9c179e"],[0.4444444444444444,"#bd3786"],[0.5555555555555556,"#d8576b"],[0.6666666666666666,"#ed7953"],[0.7777777777777778,"#fb9f3a"],[0.8888888888888888,"#fdca26"],[1.0,"#f0f921"]],"type":"histogram2d"}],"histogram":[{"marker":{"pattern":{"fillmode":"overlay","size":10,"solidity":0.2}},"type":"histogram"}],"mesh3d":[{"colorbar":{"outlinewidth":0,"ticks":""},"type":"mesh3d"}],"parcoords":[{"line":{"colorbar":{"outlinewidth":0,"ticks":""}},"type":"parcoords"}],"pie":[{"automargin":true,"type":"pie"}],"scatter3d":[{"line":{"colorbar":{"outlinewidth":0,"ticks":""}},"marker":{"colorbar":{"outlinewidth":0,"ticks":""}},"type":"scatter3d"}],"scattercarpet":[{"marker":{"colorbar":{"outlinewidth":0,"ticks":""}},"type":"scattercarpet"}],"scattergeo":[{"marker":{"colorbar":{"outlinewidth":0,"ticks":""}},"type":"scattergeo"}],"scattergl":[{"marker":{"colorbar":{"outlinewidth":0,"ticks":""}},"type":"scattergl"}],"scattermapbox":[{"marker":{"colorbar":{"outlinewidth":0,"ticks":""}},"type":"scattermapbox"}],"scattermap":[{"marker":{"colorbar":{"outlinewidth":0,"ticks":""}},"type":"scattermap"}],"scatterpolargl":[{"marker":{"colorbar":{"outlinewidth":0,"ticks":""}},"type":"scatterpolargl"}],"scatterpolar":[{"marker":{"colorbar":{"outlinewidth":0,"ticks":""}},"type":"scatterpolar"}],"scatter":[{"fillpattern":{"fillmode":"overlay","size":10,"solidity":0.2},"type":"scatter"}],"scatterternary":[{"marker":{"colorbar":{"outlinewidth":0,"ticks":""}},"type":"scatterternary"}],"surface":[{"colorbar":{"outlinewidth":0,"ticks":""},"colorscale":[[0.0,"#0d0887"],[0.1111111111111111,"#46039f"],[0.2222222222222222,"#7201a8"],[0.3333333333333333,"#9c179e"],[0.4444444444444444,"#bd3786"],[0.5555555555555556,"#d8576b"],[0.6666666666666666,"#ed7953"],[0.7777777777777778,"#fb9f3a"],[0.8888888888888888,"#fdca26"],[1.0,"#f0f921"]],"type":"surface"}],"table":[{"cells":{"fill":{"color":"#EBF0F8"},"line":{"color":"white"}},"header":{"fill":{"color":"#C8D4E3"},"line":{"color":"white"}},"type":"table"}]},"layout":{"annotationdefaults":{"arrowcolor":"#2a3f5f","arrowhead":0,"arrowwidth":1},"autotypenumbers":"strict","coloraxis":{"colorbar":{"outlinewidth":0,"ticks":""}},"colorscale":{"diverging":[[0,"#8e0152"],[0.1,"#c51b7d"],[0.2,"#de77ae"],[0.3,"#f1b6da"],[0.4,"#fde0ef"],[0.5,"#f7f7f7"],[0.6,"#e6f5d0"],[0.7,"#b8e186"],[0.8,"#7fbc41"],[0.9,"#4d9221"],[1,"#276419"]],"sequential":[[0.0,"#0d0887"],[0.1111111111111111,"#46039f"],[0.2222222222222222,"#7201a8"],[0.3333333333333333,"#9c179e"],[0.4444444444444444,"#bd3786"],[0.5555555555555556,"#d8576b"],[0.6666666666666666,"#ed7953"],[0.7777777777777778,"#fb9f3a"],[0.8888888888888888,"#fdca26"],[1.0,"#f0f921"]],"sequentialminus":[[0.0,"#0d0887"],[0.1111111111111111,"#46039f"],[0.2222222222222222,"#7201a8"],[0.3333333333333333,"#9c179e"],[0.4444444444444444,"#bd3786"],[0.5555555555555556,"#d8576b"],[0.6666666666666666,"#ed7953"],[0.7777777777777778,"#fb9f3a"],[0.8888888888888888,"#fdca26"],[1.0,"#f0f921"]]},"colorway":["#636efa","#EF553B","#00cc96","#ab63fa","#FFA15A","#19d3f3","#FF6692","#B6E880","#FF97FF","#FECB52"],"font":{"color":"#2a3f5f"},"geo":{"bgcolor":"white","lakecolor":"white","landcolor":"white","showlakes":true,"showland":true,"subunitcolor":"#C8D4E3"},"hoverlabel":{"align":"left"},"hovermode":"closest","mapbox":{"style":"light"},"paper_bgcolor":"white","plot_bgcolor":"white","polar":{"angularaxis":{"gridcolor":"#EBF0F8","linecolor":"#EBF0F8","ticks":""},"bgcolor":"white","radialaxis":{"gridcolor":"#EBF0F8","linecolor":"#EBF0F8","ticks":""}},"scene":{"xaxis":{"backgroundcolor":"white","gridcolor":"#DFE8F3","gridwidth":2,"linecolor":"#EBF0F8","showbackground":true,"ticks":"","zerolinecolor":"#EBF0F8"},"yaxis":{"backgroundcolor":"white","gridcolor":"#DFE8F3","gridwidth":2,"linecolor":"#EBF0F8","showbackground":true,"ticks":"","zerolinecolor":"#EBF0F8"},"zaxis":{"backgroundcolor":"white","gridcolor":"#DFE8F3","gridwidth":2,"linecolor":"#EBF0F8","showbackground":true,"ticks":"","zerolinecolor":"#EBF0F8"}},"shapedefaults":{"line":{"color":"#2a3f5f"}},"ternary":{"aaxis":{"gridcolor":"#DFE8F3","linecolor":"#A2B1C6","ticks":""},"baxis":{"gridcolor":"#DFE8F3","linecolor":"#A2B1C6","ticks":""},"bgcolor":"white","caxis":{"gridcolor":"#DFE8F3","linecolor":"#A2B1C6","ticks":""}},"title":{"x":0.05},"xaxis":{"automargin":true,"gridcolor":"#EBF0F8","linecolor":"#EBF0F8","ticks":"","title":{"standoff":15},"zerolinecolor":"#EBF0F8","zerolinewidth":2},"yaxis":{"automargin":true,"gridcolor":"#EBF0F8","linecolor":"#EBF0F8","ticks":"","title":{"standoff":15},"zerolinecolor":"#EBF0F8","zerolinewidth":2}}},"legend":{"orientation":"h","y":-0.22,"x":0},"font":{"size":13},"width":680,"height":460,"title":{"text":"Post-Training Movement"},"yaxis":{"title":{"text":"mean target EV shift at K=8"}},"xaxis":{"title":{"text":"post-training stage"}}},                        {"responsive": true}                    )                };            </script>        </div>
 </body>
 </html>

diff --git a/scripts/note_selfperception_assets.py b/scripts/note_selfperception_assets.py
@@ -660,7 +660,7 @@ fig2.add_trace(go.Scatter(
 # base is flat (−0.10) and its instruct is unmeasurable bare (Table 7 note)
 fig2.update_layout(
     template="plotly_white", width=680, height=460,
-    title="Post-training sets the self-image update rate (K=8)",
+    title="Post-Training Movement",
     yaxis=dict(title="mean target EV shift at K=8"),
     xaxis=dict(title="post-training stage"),
     legend=dict(orientation="h", y=-0.22, x=0), font=dict(size=13))
